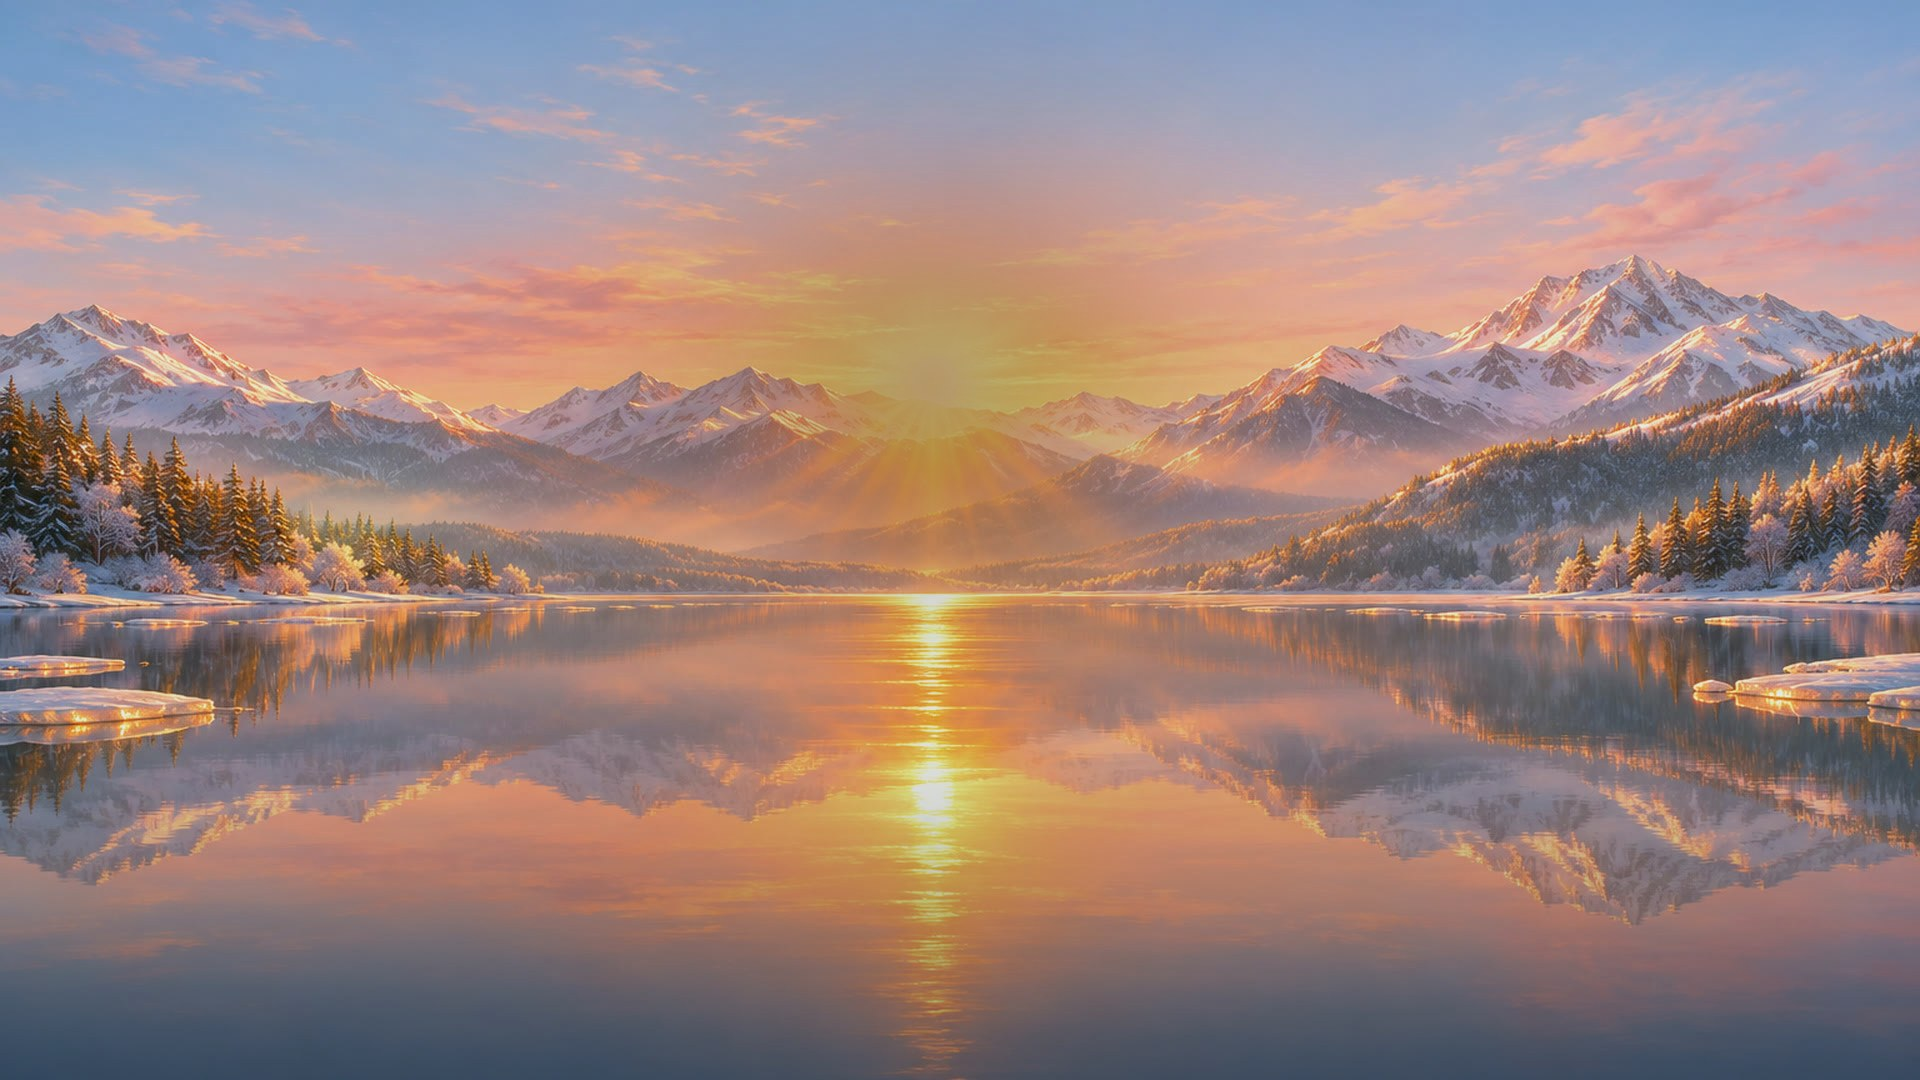
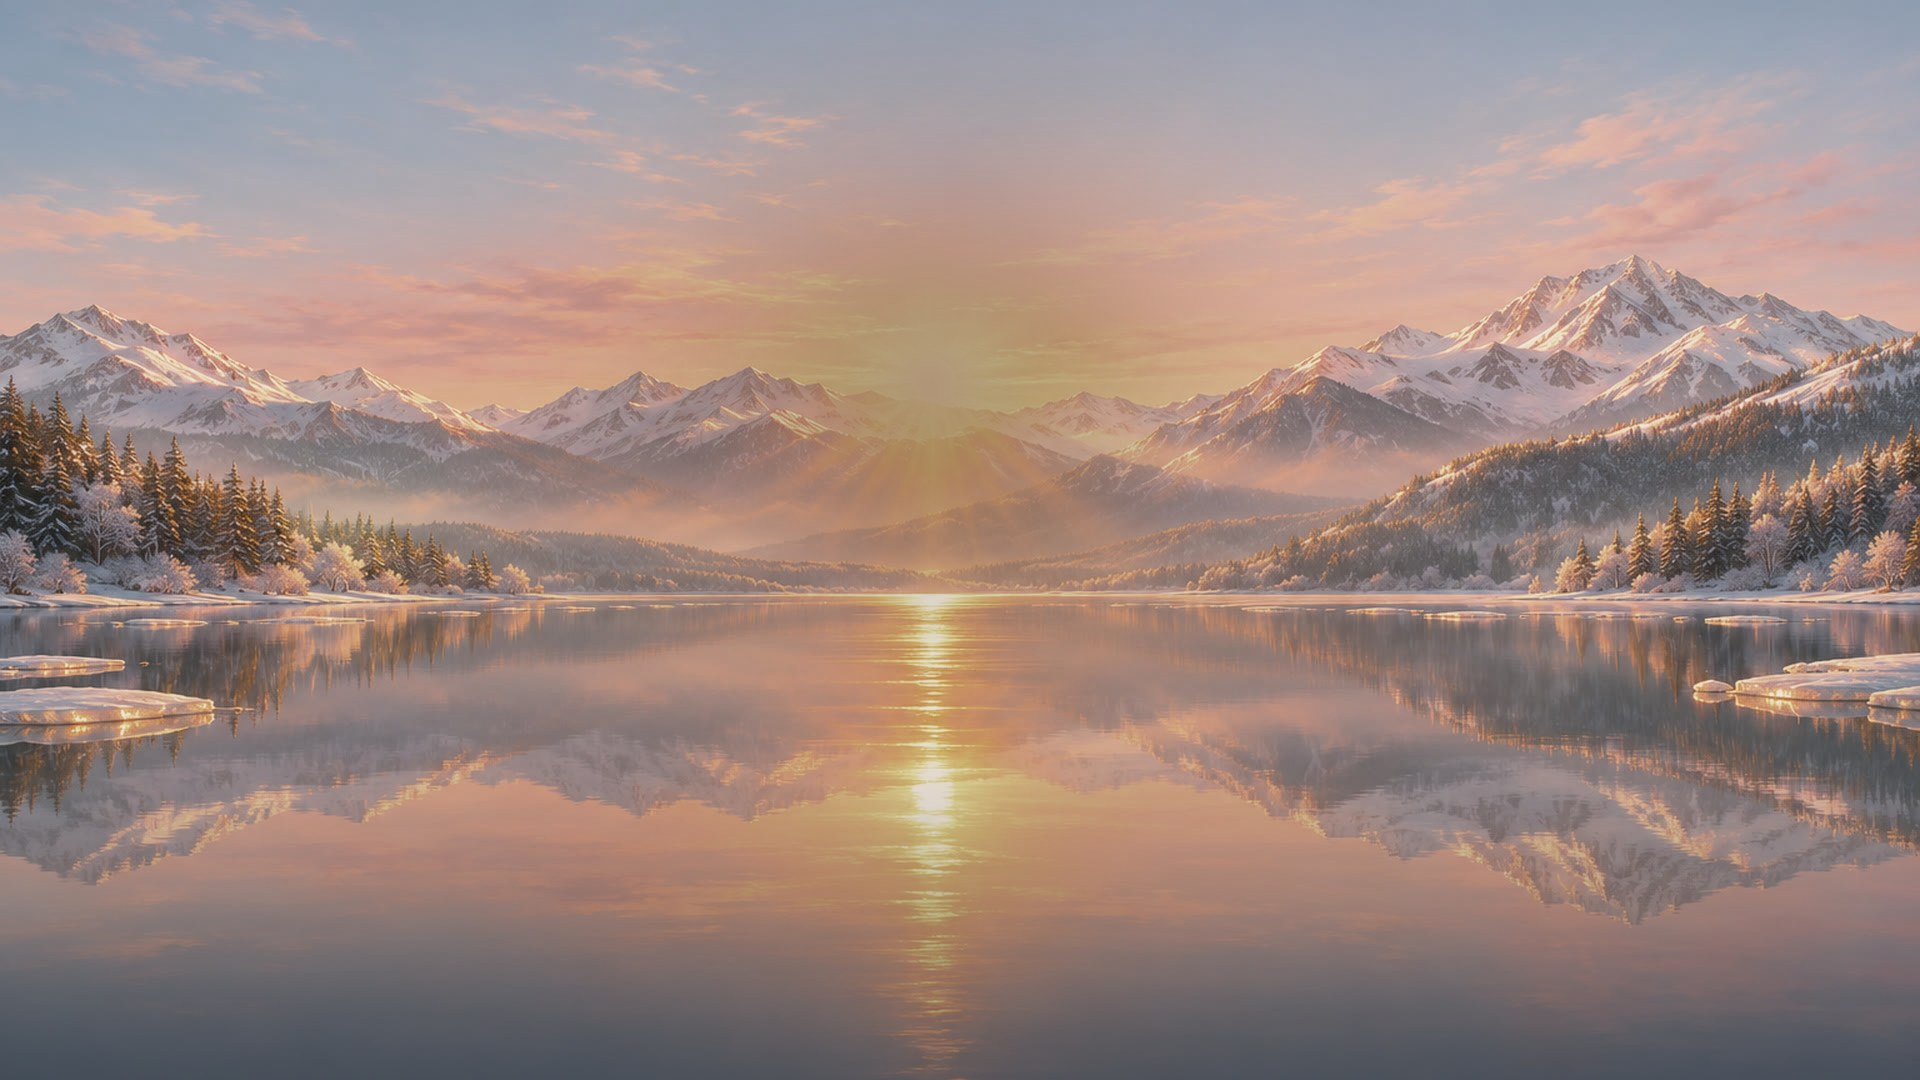
Song 04 promo v2, round 3: ice holds until the people leave, small light off the sun axis, longer end card, peach thaw plate
Claude-Session: https://claude.ai/code/session_01DSHsMeB7ain7qg3RYXYMEW

diff --git a/engine/songs/s04_im_sorry.py b/engine/songs/s04_im_sorry.py
@@ -142,7 +142,7 @@ from track import Track   # the shared Track refuses keys that are not strictly 
 VOICE_IN = 5.0        # "I'm sorry" (verse 1, line 1) begins, about 0:31
 CHORUS1 = 49.0        # first chorus, 1:15
 NINTH = 1e9           # the whole arch does not glow at the end of this promo
-TITLE_HIT = 50.3      # end card
+TITLE_HIT = 49.9      # end card
 
 # The scenes (promo v2), the phase 1 plates painted for this song (assets/plates/s04/, sun softened behind the
 # words and the lower third calmed), each a different framing. Scene changes happen only in gaps between texts.
@@ -150,11 +150,12 @@ TITLE_HIT = 50.3      # end card
 #  2   1.5 to 18  frozen_lake_wide: a wide frozen lake, low cold sun in haze; the apology said first
 #  3  16.4 to 29  reflection_close: a low, very close view where the mirrored ice fills the frame (no mountains);
 #                 "the pain you held inside" appears in the reflection, then rises
-#  4  27 to 48    ice_path: a long view down the ice to the low sun, framed off centre; a path of footprints of
+#  4  27 to 49    ice_path: a long view down the ice to the low sun, framed off centre; a path of footprints of
 #                 light runs from the sun across the ice to the sisters: one walks across, kneels and holds her
-#                 sister's hand ("truly humbled"); they embrace ("opened her heart"); the ice thaws in glowing pools
-#  5  46 to 60    thaw_morning: the thawed lake in warm apricot light, a thin gold path across the water ending in
-#                 one small warm light at centre where the sisters' light came down; the three-line end card
+#                 sister's hand ("truly humbled"); they embrace ("opened her heart"); the ice holds until they leave
+#  5  47 to 60    thaw_morning (graded to apricot and peach): the ice thaws on the first chorus; a thin gold path on
+#                 the water, off the sun's reflection, ends in one small warm light where the sisters' light came
+#                 down; the three-line end card
 SKYLINE_LANTERN = 0.0     # no travelling light on the drawn skyline (the plates have their own mountains)
 BOTTOM_CALM = 1.0
 RINGS_AT_START = {6: 2}   # Encouragement was relit in songs 02 and 03; Apology (03) and Compliment (01) have no rings yet
@@ -183,7 +184,7 @@ PETALS = Track([(0, 0.0), (TOTAL, 0.0)])   # no falling petals (they belong to s
 TRAIL = Track([(0, 0.0), (TOTAL, 0.0)])
 ZOOM = Track([(0, 1.0), (TOTAL, 1.0)])
 EXPOSURE = Track([(0, 1.0), (TOTAL, 1.0)])
-FADE = Track([(0, 0.0), (1.0, 1.0), (TOTAL - 1.8, 1.0), (TOTAL - 0.2, 0.0)])
+FADE = Track([(0, 0.0), (1.0, 1.0), (TOTAL - 1.4, 1.0), (TOTAL - 0.1, 0.0)])
 RAYS = Track([(0, 0.0), (TOTAL, 0.0)])     # the plates carry their own light; nothing crosses the end card
 PART = Track([(0, 0.0), (TOTAL, 0.0)])
 
@@ -203,13 +204,13 @@ SCENES = [
     dict(image="assets/plates/s04/reflection_close.jpg", t0=16.4, t1=29.2, fade_in=2.0, fade_out=2.0,
          zoom=(1.50, 1.56), pan=((0.06, -0.17), (0.04, -0.17)), water=True, water_line=0.98,
          water_strength=0.55, calm_gain=0.8, gain=Track([(0, 1.0), (18.4, 0.90), (27.0, 0.90), (29.2, 1.0)])),
-    dict(image="assets/plates/s04/ice_path.jpg", t0=27.2, t1=48.0, fade_in=2.0, fade_out=2.0,
+    dict(image="assets/plates/s04/ice_path.jpg", t0=27.2, t1=49.0, fade_in=2.0, fade_out=2.0,
          zoom=(1.15, 1.12), pan=((0.06, 0.0), (0.055, 0.0)), water=True, water_line=0.55, water_strength=0.35,
          calm_gain=0.8,
-         gain=Track([(0, 1.0), (29.2, 0.84), (46.0, 0.84), (48.0, 1.0)])),
-    dict(image="assets/plates/s04/thaw_morning.jpg", t0=46.0, t1=61.0, fade_in=2.0, fade_out=0.0,
+         gain=Track([(0, 1.0), (29.2, 0.84), (47.0, 0.84), (49.0, 1.0)])),
+    dict(image="assets/plates/s04/thaw_morning.jpg", t0=47.0, t1=61.0, fade_in=2.0, fade_out=0.0,
          zoom=(1.10, 1.05), water=True, water_line=0.445, water_strength=0.45, calm_gain=0.8,
-         gain=Track([(0, 0.95), (48.0, 0.78), (TOTAL, 0.78)])),
+         gain=Track([(0, 0.95), (49.0, 0.80), (TOTAL, 0.80)])),
 ]
 
 # B. people of light: two sisters
@@ -222,17 +223,18 @@ FIGURES = [
     # then they embrace. Their light comes down as one small warm light at the centre of the lake.
     dict(poses=["assets/song_figures/s04/s04_walk.png", "assets/song_figures/s04/s04_kneel_pair.png",
                 "assets/figures/inclusiveness_c.png"],
-         t0=27.6, t1=43.4, pose_times=[30.6, 38.0], x=0.62, y=0.21, height=0.38, to=(0.5, 0.27),
+         t0=27.6, t1=43.4, pose_times=[30.6, 38.0], x=0.62, y=0.21, height=0.38, to=(0.42, 0.22),
          color="#ffb7a8"),
 ]
 
 # C. signature effects: the ice and its thaw, frost over the frame, the path of footprints of light across the ice
 # the ice stays whole (no thaw edges) through the first three scenes; it is only made fainter over the close
 # reflection; it starts to thaw in glowing pools as the sisters embrace, and melts away on the first chorus
-ICE = Track([(0, 0.0), (0.6, 0.0), (3.0, 1.0), (39.0, 1.0), (45.0, 0.45), (48.0, 0.30), (53.0, 0.0)])
+ICE = Track([(0, 0.0), (0.6, 0.0), (3.0, 1.0), (46.5, 1.0), (49.5, 0.40), (53.5, 0.0)])
 ICE_LINE = Track([(0, 0.40), (1.5, 0.40), (3.5, 0.56), (16.4, 0.56), (18.4, 0.98), (27.2, 0.98), (29.2, 0.55),
                   (46.0, 0.55), (48.0, 0.445), (TOTAL, 0.445)])
-ICE_OPACITY = Track([(0, 0.80), (16.4, 0.80), (18.4, 0.30), (27.2, 0.30), (29.2, 0.80), (TOTAL, 0.80)])
+ICE_OPACITY = Track([(0, 0.80), (16.4, 0.80), (18.4, 0.15), (27.2, 0.15), (29.2, 0.80), (46.5, 0.80),
+                     (49.0, 0.45), (TOTAL, 0.45)])
 ICE_FRAME = Track([(0, 0.0), (1.0, 0.0), (4.0, 0.35), (27.0, 0.35), (31.0, 0.12), (44.0, 0.08), (48.0, 0.0)])
 
 
@@ -241,13 +243,13 @@ def _beam(t):
     # ends in one small warm light at centre
     if t < 47.0:
         return 0.0 if t < 31.0 else min((t - 31.0) / 2.5, 1.0) * 0.55 * (1.0 - min(max((t - 44.0) / 2.5, 0.0), 1.0))
-    return 0.75 * min(max((t - 48.0) / 3.0, 0.0), 1.0)
+    return 0.80 * min(max((t - 49.0) / 3.0, 0.0), 1.0)
 
 
 BEAM = _beam
-BEAM_FROM = lambda t: (0.44, 0.59) if t < 47.0 else (0.49, 0.665)   # noqa: E731
-BEAM_TO = lambda t: (0.58, 0.215) if t < 47.0 else (0.50, 0.27)     # noqa: E731
-BEAM_WIDTH = lambda t: (0.010, 0.07) if t < 47.0 else (0.008, 0.06)   # noqa: E731
+BEAM_FROM = lambda t: (0.44, 0.59) if t < 47.0 else (0.455, 0.43)   # noqa: E731
+BEAM_TO = lambda t: (0.58, 0.215) if t < 47.0 else (0.42, 0.23)     # noqa: E731
+BEAM_WIDTH = lambda t: (0.010, 0.07) if t < 47.0 else (0.004, 0.09)   # noqa: E731
 BEAM_COLOR = "#ffd2a0"
 FLASH = Track([(0, 0.0), (48.6, 0.0), (49.3, 0.16), (50.8, 0.0)])
 TEXT_SHADOW = Track([(0, 1.3), (TOTAL, 1.5)])
@@ -283,14 +285,14 @@ TITLE = dict(label="Healing Concert", lines=["The Words of Mother’s Love"], si
 FRAGMENTS = [
     dict(text="the pain you held inside", t0=18.6, t1=22.3, out=25.4, dy=0.0, size=88, glow="#bcd6ff",
          style="reflection", line=0.52),
-    dict(text="truly humbled", t0=31.6, t1=34.4, out=37.5, dy=0.06, size=96, style="write", glow="#ffc48c"),
-    dict(text="opened her heart", t0=39.6, t1=42.1, out=45.2, dy=0.06, size=96, glow="#ff9fb8"),
+    dict(text="truly humbled", t0=31.3, t1=34.1, out=37.1, dy=0.06, size=96, style="write", glow="#ffc48c"),
+    dict(text="opened her heart", t0=39.2, t1=41.7, out=44.8, dy=0.06, size=96, glow="#ff9fb8"),
 ]
 
 # the three-line end card (PHASE2.md item 7)
 TAGLINE = dict(text="Where a mother’s love reaches, peace settles.\nSunday, December 6 · 4:30 PM\n"
                     "The World Mission Society Church of God · 6720 W Sahara Ave, Las Vegas",
-               t0=TITLE_HIT + 1.3, t1=TITLE_HIT + 3.8)
+               t0=TITLE_HIT + 0.8, t1=TITLE_HIT + 3.3)
 
 # Opening title card that then rests, small, in the top left corner
 CREDIT = dict(song="I’m Sorry, Please Forgive Me", concert="The Words of Mother’s Love Healing Concert",
@@ -319,7 +321,7 @@ def credit_state(t, bbox):
 
 
 # Waves of light that cross the sky: Apology's light flares again, then the end card
-WAVES = [(PHRASES[2]["arrive"], STAR_POS[2][0], STAR_POS[2][1], 0.7), (TITLE_HIT, 0.5, 0.62, 1.2)]
+WAVES = [(PHRASES[2]["arrive"], STAR_POS[2][0], STAR_POS[2][1], 0.35), (TITLE_HIT, 0.5, 0.62, 1.2)]
 
 
 def params(song, t):
